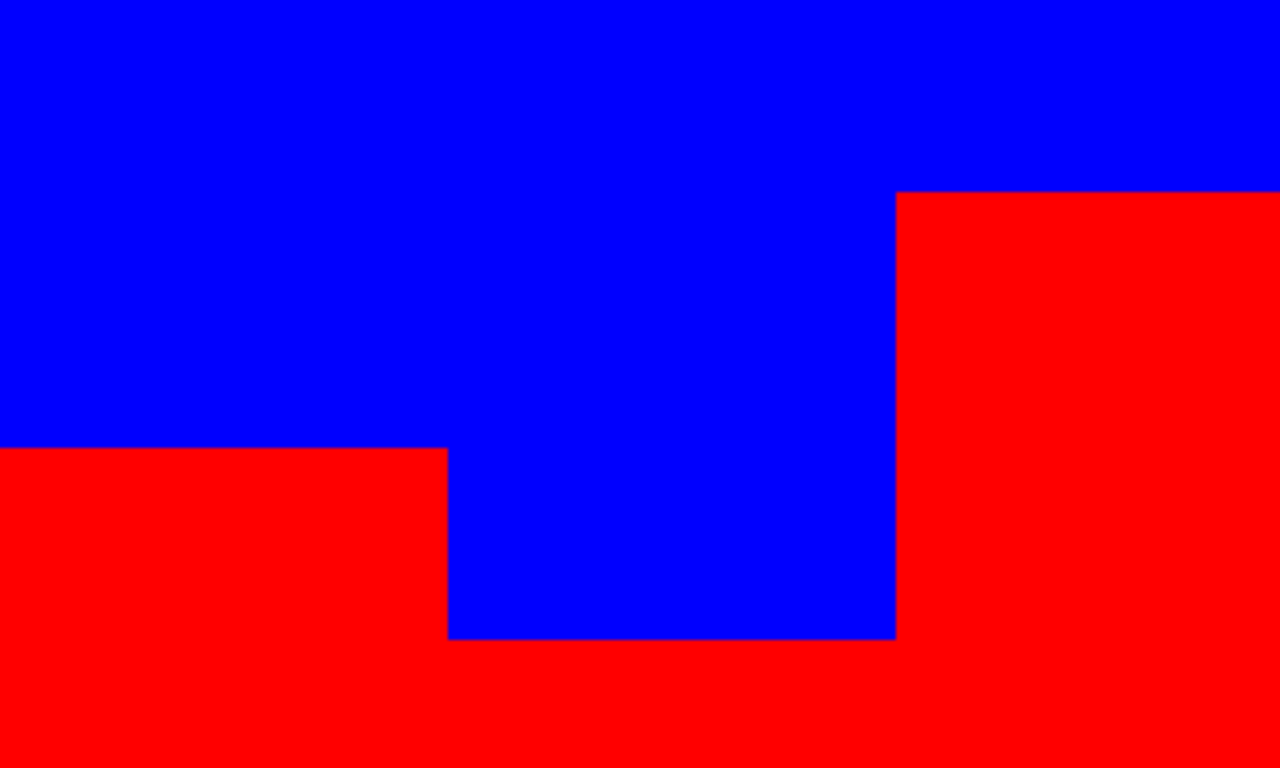
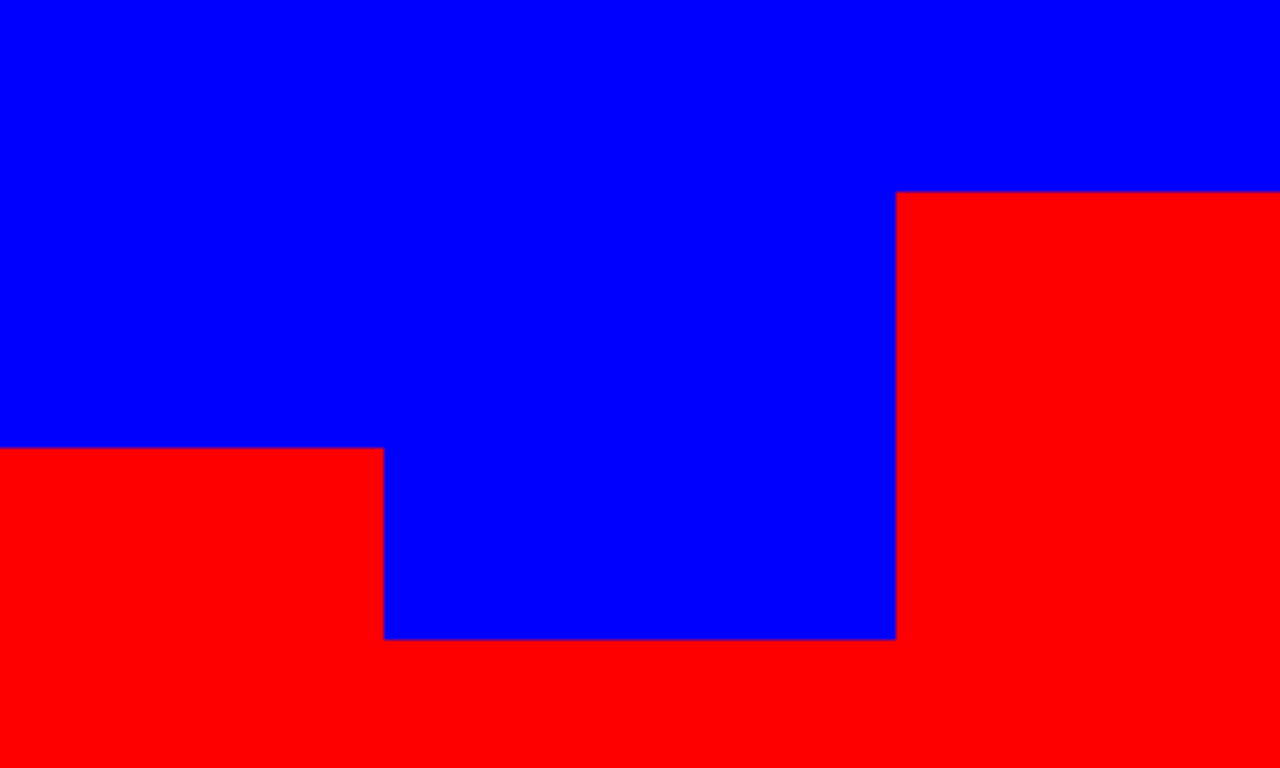
Colision map 2 is done

Changed region(s): [[0.2812, 0.5625, 0.375, 0.8438]]

diff --git a/player_movement.c b/player_movement.c
@@ -47,18 +47,18 @@ int memo_key_released(player_struct_t *player, sfKeyEvent key_released)
     return (0);
 }
 
-int detect_movement(player_struct_t *player)
+int detect_movement(player_struct_t *player,sprite_t *sprite)
 {
     sfVector2f cordo = {0,0};
+    sfVector2f cordo_player = sfSprite_getPosition(player->sprite_player);
     if (player->controle->move_up == true)
         cordo.y -= SPEED;
-    if (player->controle->move_down == true)
+    if (player->controle->move_down == true && colision_player(sprite,cordo_player.x - 40, cordo_player.y + 65) && colision_player(sprite,cordo_player.x + 60,cordo_player.y + 65))
         cordo.y += SPEED;
-    if (player->controle->move_right == true)
+    if (player->controle->move_right == true && colision_player(sprite,cordo_player.x + 64, cordo_player.y + 60))
         cordo.x += SPEED;
-    if (player->controle->move_left == true)
+    if (player->controle->move_left == true && colision_player(sprite,cordo_player.x - 48, cordo_player.y + 60))
         cordo.x -= SPEED;
-    
-    sfSprite_move(player->sprite_player,cordo);
+    sfSprite_move(player->sprite_player, cordo);
     return (0);
 }

diff --git a/include/rabbit.h b/include/rabbit.h
@@ -68,8 +68,7 @@ player_struct_t *make_struct_player(void);
 int memo_key_released(player_struct_t *player, sfKeyEvent key_pressed);
 int memo_key_pressed(player_struct_t *player, sfKeyEvent key_pressed);
 controle_key_t *make_struct_controle(void);
-int detect_movement(player_struct_t *player);
-int detect_movement(player_struct_t *player, sfKeyEvent key_pressed,sprite_t *sprite);
+int detect_movement(player_struct_t *player,sprite_t *sprite);
 int my_colorcmp(sfColor color1, sfColor color2);
 sfColor get_pixel_color(sprite_t *sprite, int x, int y);
 int colision_player(sprite_t *sprite,int x, int y);

diff --git a/main.c b/main.c
@@ -14,8 +14,8 @@ int main()
     player_struct_t *player_one = make_struct_player();
     sprite_t *sprite = map_load_one();
     while (sfRenderWindow_isOpen(window)){
-        analyse_events(window, event, player_one);
-        detect_movement(player_one);
+        analyse_events(window, event, player_one,sprite);
+        detect_movement(player_one,sprite);
         sfRenderWindow_drawSprite(window, sprite->sprite_background, NULL);
         sfRenderWindow_drawSprite(window,player_one->sprite_player,NULL);
         sfRenderWindow_display(window);
